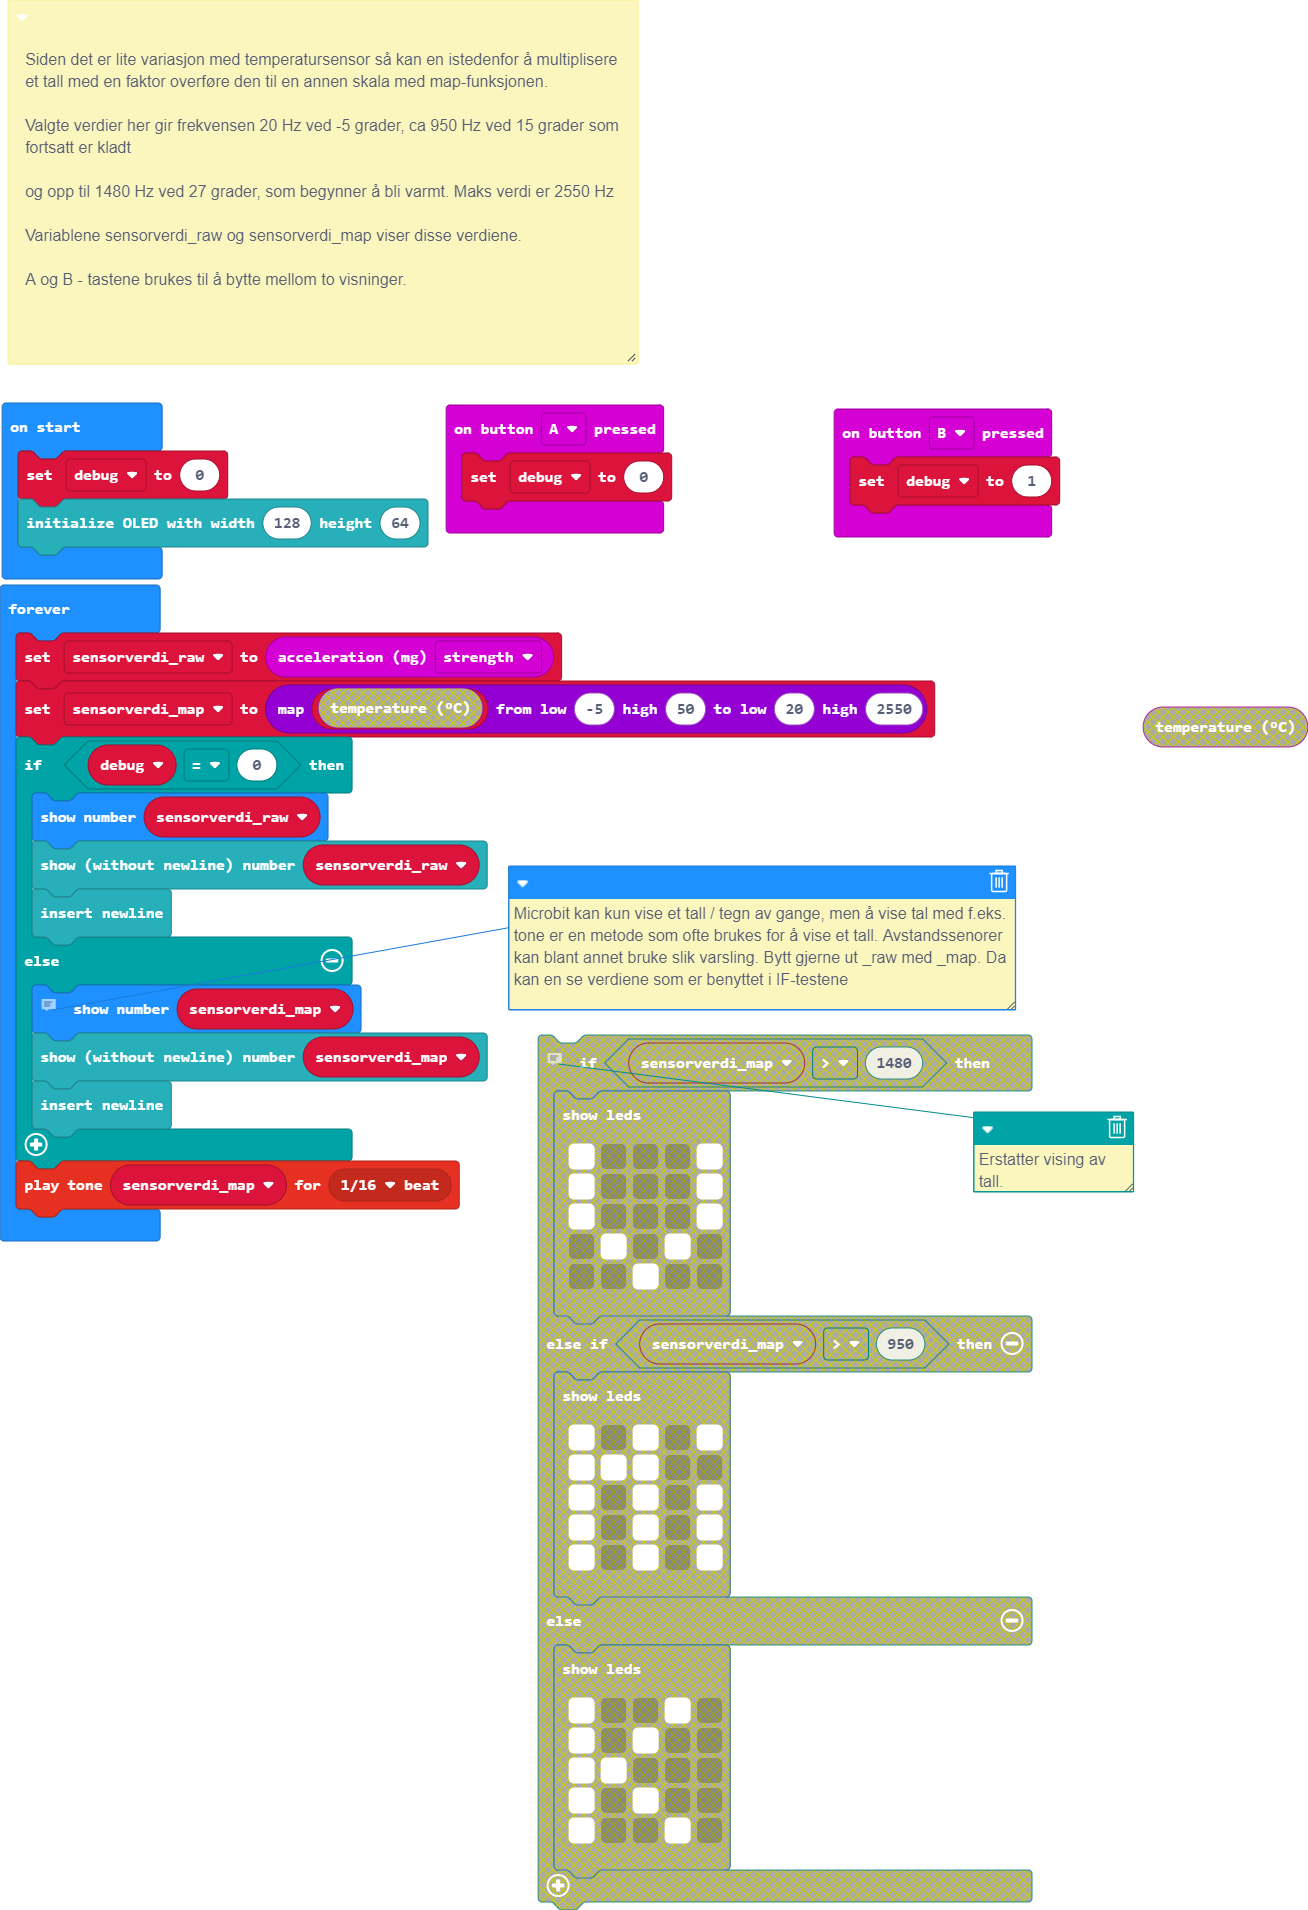
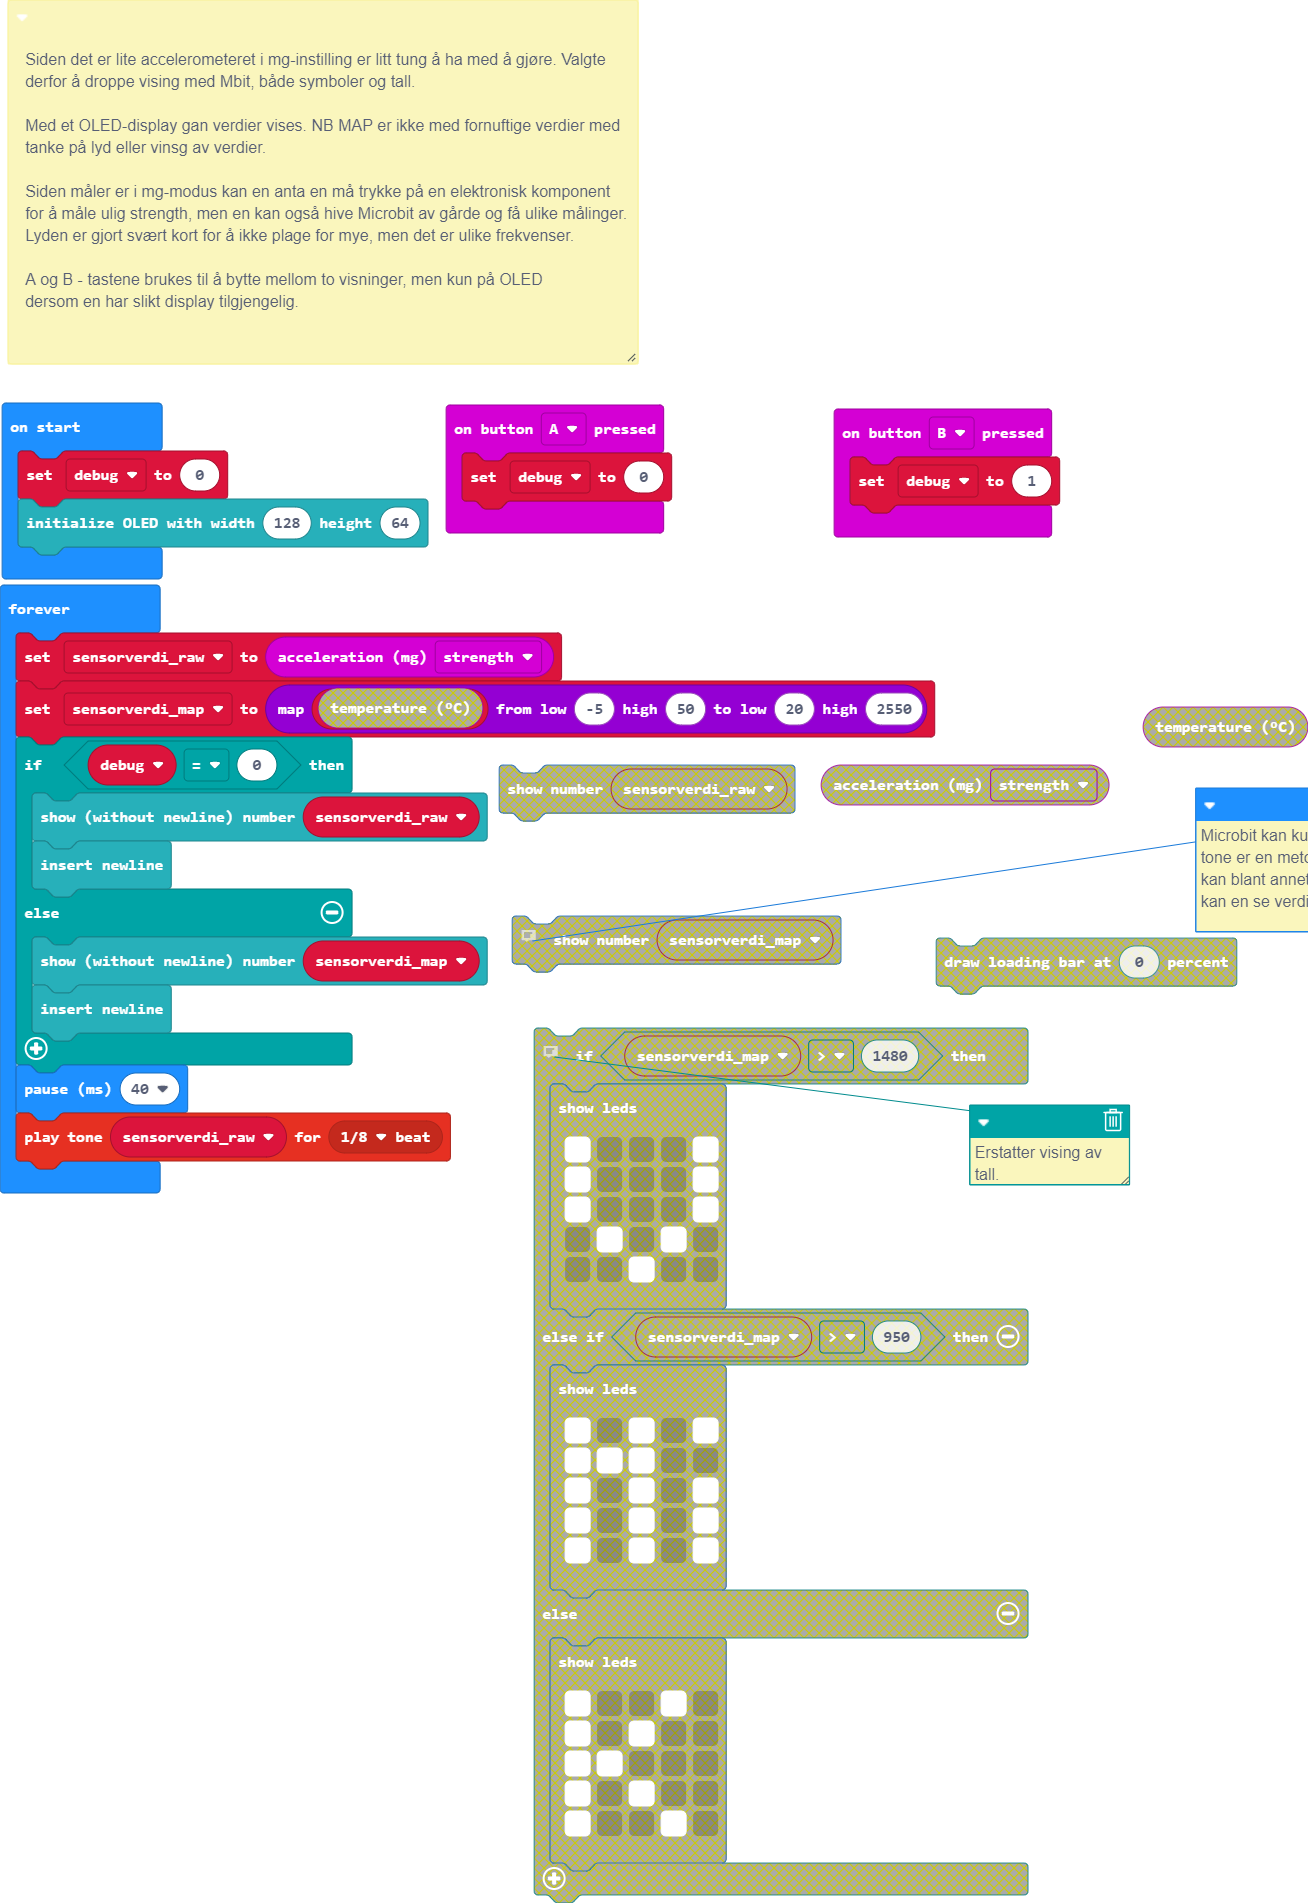
Levert

diff --git a/main.ts b/main.ts
@@ -1,13 +1,15 @@
 /**
- * Siden det er lite variasjon med temperatursensor så kan en istedenfor å multiplisere et tall med en faktor overføre den til en annen skala med map-funksjonen.
+ * Siden det er lite accelerometeret i mg-instilling er litt tung å ha med å gjøre. Valgte derfor å droppe vising med Mbit, både symboler og tall.
  * 
- * Valgte verdier her gir frekvensen 20 Hz ved -5 grader, ca 950 Hz ved 15 grader som fortsatt er kladt
+ * Med et OLED-display gan verdier vises. NB MAP er ikke med fornuftige verdier med tanke på lyd eller vinsg av verdier.
  * 
- * og opp til 1480 Hz ved 27 grader, som begynner å bli varmt. Maks verdi er 2550 Hz
+ * Siden måler er i mg-modus kan en anta en må trykke på en elektronisk komponent
  * 
- * Variablene sensorverdi_raw og sensorverdi_map viser disse verdiene.
+ * for å måle ulig strength, men en kan også hive Microbit av gårde og få ulike målinger. Lyden er gjort svært kort for å ikke plage for mye, men det er ulike frekvenser.
  * 
- * A og B - tastene brukes til å bytte mellom to visninger.
+ * A og B - tastene brukes til å bytte mellom to visninger, men kun på OLED
+ * 
+ * dersom en har slikt display tilgjengelig.
  */
 input.onButtonPressed(Button.A, function () {
     debug = 0
@@ -24,14 +26,12 @@ basic.forever(function () {
     sensorverdi_raw = input.acceleration(Dimension.Strength)
     sensorverdi_map = Math.map(sensorverdi_raw, -5, 50, 20, 2550)
     if (debug == 0) {
-        basic.showNumber(sensorverdi_raw)
         OLED.writeNum(sensorverdi_raw)
         OLED.newLine()
     } else {
-        // Microbit kan kun vise et tall / tegn av gange, men å vise tal med f.eks. tone er en metode som ofte brukes for å vise et tall. Avstandssenorer kan blant annet bruke slik varsling. Bytt gjerne ut _raw med _map. Da kan en se verdiene som er benyttet i IF-testene
-        basic.showNumber(sensorverdi_map)
         OLED.writeNum(sensorverdi_map)
         OLED.newLine()
     }
-    music.playTone(sensorverdi_map, music.beat(BeatFraction.Sixteenth))
+    basic.pause(40)
+    music.playTone(sensorverdi_raw, music.beat(BeatFraction.Eighth))
 })
